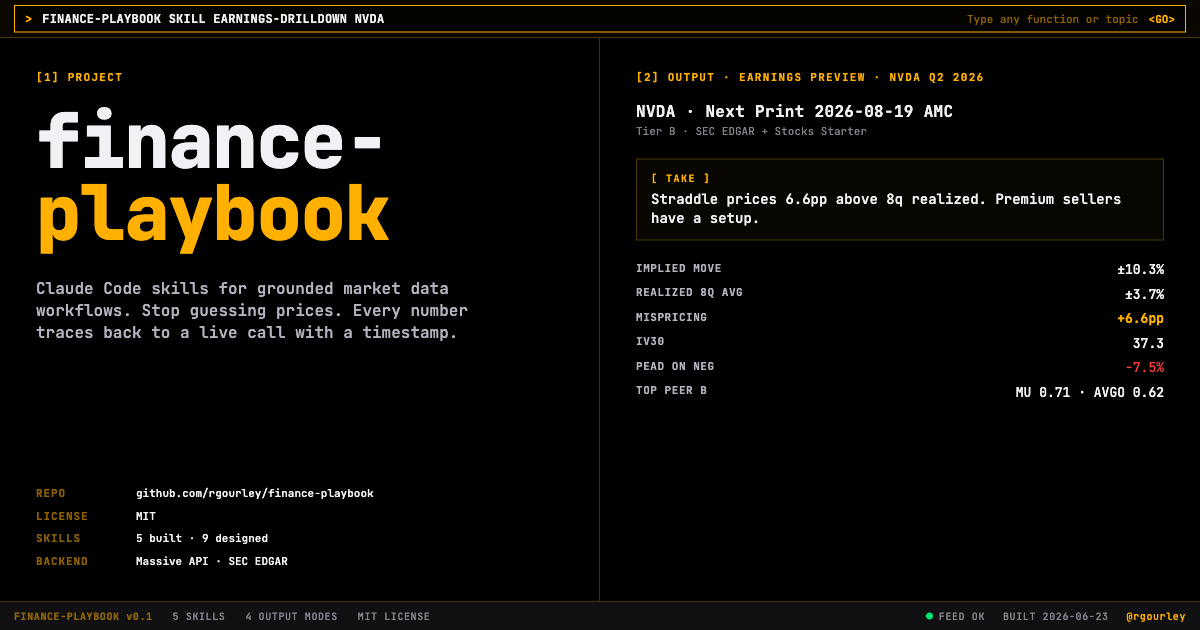
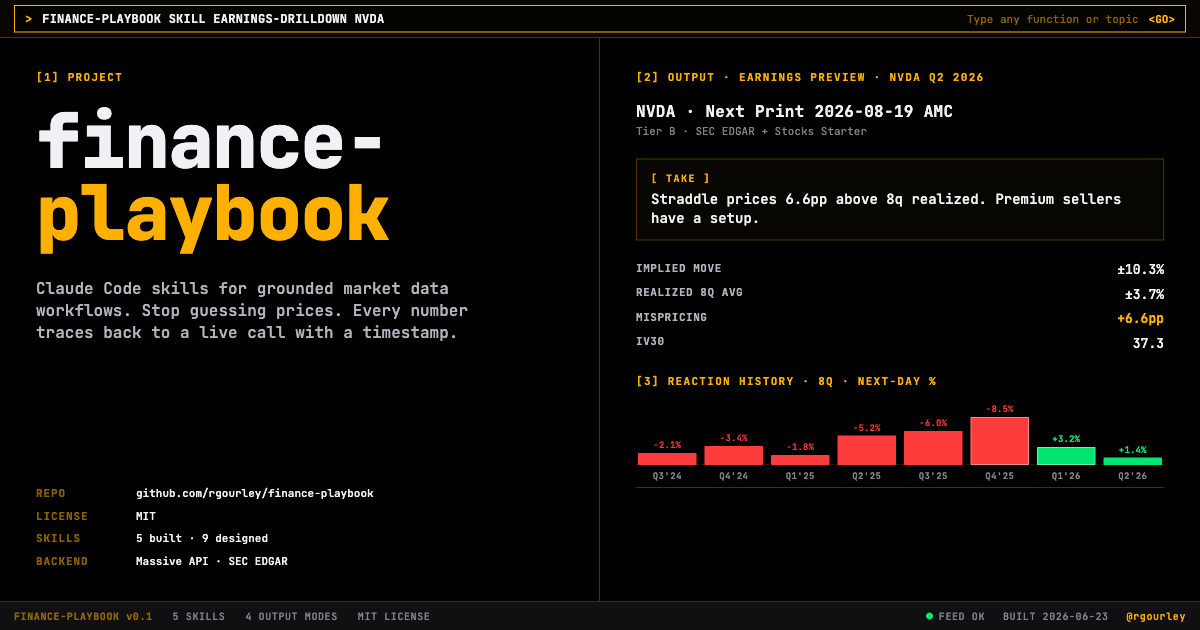
chore(brand): add 8-quarter reaction history chart to OG image
Lower-right of the OG image was empty. Added a small bar chart showing
NVDA's last 8 print-day reactions with per-bar color coding (red on
negative, green on positive) and per-bar labels above and below.

The visual pattern (6 red bars followed by 2 green) reinforces the
"premium sellers have a setup" take immediately above. Worst (Q4'25,
-8.5%) and best (Q1'26, +3.2%) get a subtle white inner border to
mark the extremes.

Built with grid layout, no canvas, no chart library; bars render via
CSS variables for height percentage. Re-screenshotted at 1200x630.

Changed region(s): [[0.5242, 0.573, 0.9867, 0.7841], [0.5242, 0.573, 0.6475, 0.6333], [0.7092, 0.6032, 0.7708, 0.6333]]

diff --git a/assets/og.html b/assets/og.html
@@ -171,6 +171,61 @@
   .row-value.pos { color: var(--positive); }
   .row-value.neg { color: var(--negative); }
   .row-value.amber { color: var(--amber); font-weight: 700; }
+  /* Chart */
+  .chart-wrap {
+    margin-top: 6px;
+  }
+  .chart {
+    position: relative;
+    display: grid;
+    grid-template-columns: repeat(8, 1fr);
+    gap: 8px;
+    align-items: end;
+    height: 92px;
+    padding: 0 2px 22px 2px;
+    border-bottom: 1px solid var(--amber-line);
+  }
+  .chart-axis {
+    position: absolute;
+    left: 0; right: 0; bottom: 22px;
+    border-bottom: 1px dashed rgba(255, 176, 0, 0.18);
+    height: 0;
+  }
+  .bar {
+    position: relative;
+    height: calc(var(--h) * 0.7);
+    min-height: 4px;
+    border-radius: 1px;
+  }
+  .bar-neg { background: var(--negative); }
+  .bar-pos { background: var(--positive); }
+  .bar.worst { box-shadow: inset 0 0 0 1px rgba(255, 255, 255, 0.4); }
+  .bar.best { box-shadow: inset 0 0 0 1px rgba(255, 255, 255, 0.4); }
+  .bar::before {
+    content: attr(data-q);
+    position: absolute;
+    bottom: -16px;
+    left: 50%;
+    transform: translateX(-50%);
+    font-size: 9px;
+    color: var(--fg3);
+    letter-spacing: 0.04em;
+    font-weight: 700;
+    white-space: nowrap;
+  }
+  .bar::after {
+    content: attr(data-v);
+    position: absolute;
+    top: -14px;
+    left: 50%;
+    transform: translateX(-50%);
+    font-size: 9px;
+    font-weight: 700;
+    letter-spacing: 0.02em;
+    white-space: nowrap;
+  }
+  .bar-neg::after { color: var(--negative); }
+  .bar-pos::after { color: var(--positive); }
   /* Status bar */
   .status {
     background: var(--bg-elev);
@@ -237,8 +292,21 @@
         <div class="row-label">REALIZED 8Q AVG</div><div class="row-value">±3.7%</div>
         <div class="row-label">MISPRICING</div><div class="row-value amber">+6.6pp</div>
         <div class="row-label">IV30</div><div class="row-value">37.3</div>
-        <div class="row-label">PEAD ON NEG</div><div class="row-value neg">−7.5%</div>
-        <div class="row-label">TOP PEER β</div><div class="row-value">MU 0.71 · AVGO 0.62</div>
+      </div>
+
+      <div class="chart-wrap">
+        <div class="section-label" style="margin-bottom: 8px;">[3] REACTION HISTORY · 8Q · NEXT-DAY %</div>
+        <div class="chart">
+          <div class="chart-axis"></div>
+          <div class="bar bar-neg" style="--h: 25%;"  data-q="Q3'24" data-v="−2.1%"></div>
+          <div class="bar bar-neg" style="--h: 40%;"  data-q="Q4'24" data-v="−3.4%"></div>
+          <div class="bar bar-neg" style="--h: 21%;"  data-q="Q1'25" data-v="−1.8%"></div>
+          <div class="bar bar-neg" style="--h: 61%;"  data-q="Q2'25" data-v="−5.2%"></div>
+          <div class="bar bar-neg" style="--h: 71%;"  data-q="Q3'25" data-v="−6.0%"></div>
+          <div class="bar bar-neg worst" style="--h: 100%;" data-q="Q4'25" data-v="−8.5%"></div>
+          <div class="bar bar-pos best" style="--h: 38%;"  data-q="Q1'26" data-v="+3.2%"></div>
+          <div class="bar bar-pos" style="--h: 16%;"  data-q="Q2'26" data-v="+1.4%"></div>
+        </div>
       </div>
     </div>
 